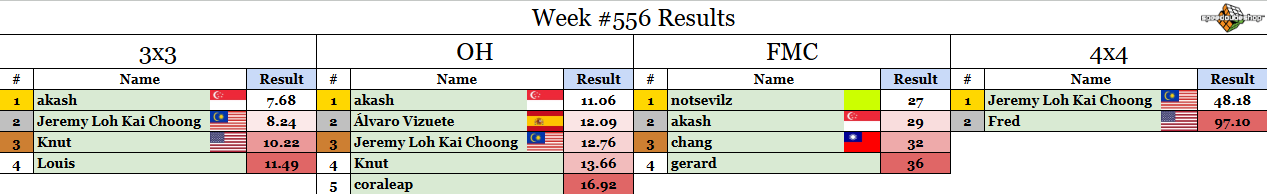
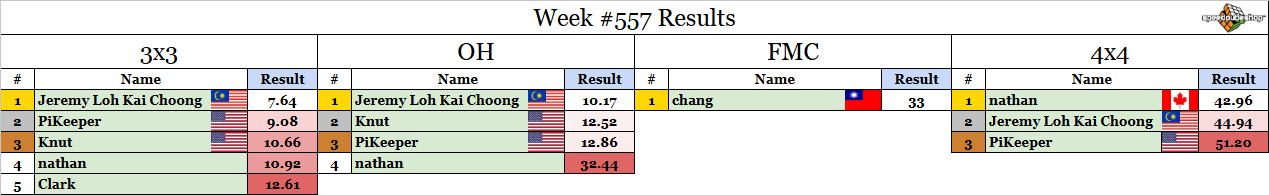
weekly comp update

diff --git a/src/pages/CMLL.tsx b/src/pages/CMLL.tsx
@@ -328,13 +328,19 @@ export default function CMLLTabs() {
                     <li>
                         TCMLL:{" "}
                         <Link href="https://docs.google.com/spreadsheets/d/1ucLxYATDLN82UuJuEaDLFuKhaVHlKUaqicId2_LNISA" target="_blank" rel="noopener">
-                        franz + cordelia + tyler + alavaro's TCMLL Algs - Google Docs
+                        franz + cordelia + tyler + alavaro's TCMLL Algs - Google Sheets
                         </Link>
                     </li>
                     <li>
                         TCMLL:{" "}
                         <Link href="https://docs.google.com/document/d/10wenyuYdJhJd70lka0m01SdCK1OK2OgHGuaPCFMCQc4/edit?tab=t.0" target="_blank" rel="noopener">
                         Montu's TCMLL Algs - Google Docs
+                        </Link>
+                    </li>
+                    <li>
+                        TCMLL:{" "}
+                        <Link href="https://www.dropbox.com/scl/fi/q9rx51ex5p8so2mrn7xxx/tcmll-1a-compilation-full.mp4?rlkey=ce2rok823r3hwmbu8e8l0afz1&e=1&st=jp38qn6q&dl=0" target="_blank" rel="noopener">
+                        Cordelia's TCMLL 1a Execution - Dropbox
                         </Link>
                     </li>
                     <li>

diff --git a/src/pages/Rouxtorials.tsx b/src/pages/Rouxtorials.tsx
@@ -54,7 +54,7 @@ export default function Rouxtorials() {
                 <Typography variant="h4">Video Tutorials</Typography>
                 <ul>
                 <li>
-                    <Link href="" target="_blank" rel="noopener">
+                    <Link href="https://www.youtube.com/playlist?list=PLBHocHmPzgIjnAbNLHDycgaCP5IqiwnU9" target="_blank" rel="noopener">
                     Kian's Beginner Roux Tutorial - YouTube
                     </Link>
                 </li>

diff --git a/src/weeklycomp/post.md b/src/weeklycomp/post.md
@@ -1,9 +1,9 @@
-## Weekly Competition #557 
+## Weekly Competition #558 
  
  This weekly competition is proudly sponsored by SpeedCubeShop.com 
  One competitor will be selected at random to receive a $5 SCS gift card! 
  
- Congrats to last week's winner by a random draw: **akash**. DM me for the prize. 
+ Congrats to last week's winner by a random draw: **PiKeeper**. DM me for the prize. 
  
  Check whether or not you participated this week yet at [https://bit.ly/RMSWeeklyCompSummary](https://bit.ly/RMSWeeklyCompSummary)  
  
@@ -17,31 +17,28 @@
  7. The comp runs until Sunday 5pm Eastern time (more or less). Enter your times using the forms links below. 
  
 ### 3x3: [Submission Form](https://forms.gle/H5xoCWvGKnZ92fQt8) 
- 1. R B R F' R2 L' B2 U R2 F U2 L2 U2 L2 F D2 F L2 D2 F 
- 2. B2 U R2 B2 F2 R2 B2 U R' U2 R' B2 F L' B U F U2 
- 3. F' U L2 U' B2 U R' U L2 F B U2 F L2 F' B2 R2 L2 U2 F2 
- 4. F L F L' B U' D B2 R2 U2 R2 D2 B2 R F2 U2 R2 D' R2 
- 5. D2 R2 B' D2 L2 U L' D2 L2 D2 F' U2 B D2 F2 U2 F' U' F 
+ 1. D2 F' R' L D L' U L2 F B L2 D2 L2 F' R2 F2 D2 R F2 
+ 2. F2 R' F2 L' D2 B' D' L' F' U' R2 F2 B2 R2 B2 D' R2 U' D2 B2 D' 
+ 3. B' D' L2 B2 L2 F' R2 D2 L2 D2 B' L2 F' U L2 R' F' L' D2 B 
+ 4. U L2 U R2 F2 R2 B2 D' L2 U' L' F U B' U' F D R2 B' 
+ 5. B D B2 D B' L' D2 R D2 F2 U2 D' R2 L2 B2 R2 U2 F2 
  
 ### OH: [Submission Form](https://forms.gle/UgRLW3K1d5KkMGfM9) 
- 1. B' L2 B2 L2 U' R2 B2 F2 D F2 U L U F2 R2 U' B2 F' 
- 2. D' F L F B U2 R2 F U' D2 R2 B2 R' D2 R' F2 R D2 L2 B2 
- 3. L B' R2 D' F L' D L' U L2 U L2 U L2 U R2 L2 F2 D2 R 
- 4. R F L F' L' U' L' U2 F' D2 R2 F' R2 U2 B' R2 B2 L B 
- 5. F2 R L2 D B2 D' B2 F2 U2 L2 U' F2 U B U2 B L' F' D2 B' U 
+ 1. R' B' R' F2 D2 L F2 D2 U2 F2 R' B2 R2 D2 B' D2 F R2 U' L U 
+ 2. U B' U' F' U' F' D B R F2 B2 U B2 D R2 U' D2 L2 D2 
+ 3. D2 R2 F R' L F U F' U' F' U2 F2 R2 B D2 B' U2 D2 B R2 
+ 4. L U R' B2 U2 L' B2 R F2 D2 R2 U2 F2 R U L' B' L F2 R B2 
+ 5. U F2 U' L2 F2 U2 R2 B2 F2 U F2 U L' B' L2 R2 D F2 U' L' R2 
  
 ### FMC: [Submission Form](https://forms.gle/1P9VUgZmA1pibwvL9) 
- 1. R' U' F B' D L2 B2 U' B2 F2 D U2 F2 D' R2 L U' B2 U' R' B' D' F' R' U' F 
+ 1. R' U' F D F2 R2 U' R2 D L2 B2 F2 U R' D L' U' L2 F U' B' D R' U' F 
  
 ### 4x4: [Submission Form](https://forms.gle/bHNjncvEcPvFWBP2A) 
- 1. F' L2 B2 L' U2 R U2 D2 F2 R' D2 L2 U' D2 B U F' R' B2 U D2 Rw2 B D2 L' B' Uw2 Fw2 R' U2 Uw2 R2 F' R Uw R L2 U' Uw2 B2 Rw' Fw Rw' U L Rw2 
- 2. U2 R B2 L U2 L U2 L2 D2 F2 D' F' D' B' U' D' R' F' L Rw2 F' Uw2 R2 L2 F L' F Rw2 D2 B Fw2 R Uw B' Fw2 L' D Rw' Fw' R Uw2 Rw2 Fw' Uw' 
- 3. L2 F2 U2 F' R2 D2 F D2 F2 U2 D' F2 R D' F2 D B2 L B2 Rw2 F2 Uw2 L D2 F2 U Fw2 D F2 Fw2 L' Fw' D2 Fw2 R2 F2 Fw' Uw' R' Fw' Uw B' R' D 
- 4. U' R F2 D2 R2 F2 R2 U2 F R2 U2 F2 U2 B2 R' F' L' D R B2 U' Rw2 B' U' F D' R2 Rw2 F' U' Uw2 B2 U2 Rw' D L' B U Rw Uw' F' D' Fw' R Fw' R' 
- 5. U R2 L' F R2 F' D2 B2 R2 B R2 F U2 B2 R' F' B2 R L2 U' R2 Rw2 Fw2 U' R F2 L' Fw2 L' B2 D B2 R2 Fw' Rw2 U D2 F' Fw Rw' U' F Uw' Rw U2 Fw 
+ 1. U L2 B2 R2 L2 D2 F2 L2 U F2 U' R' U2 B' D F B R D L' D2 Rw2 U F2 B Fw2 R2 U R2 Rw2 B D2 Fw2 R' Fw2 Rw B2 D' B' Uw' Fw2 Uw' R B2 Rw' Uw' 
+ 2. F2 L B2 R U2 R2 B2 R' U2 D2 R2 F B L' F2 U F2 B2 L' F' Fw2 U2 Uw2 B' U' Fw2 Rw2 B2 U' F' Rw2 F2 Rw Uw2 R' U' R' Fw' L2 D' R Uw' B2 Fw2 
+ 3. U' L2 D F2 D2 B2 D B2 L2 D F R L' B2 L2 U' R L2 D Fw2 R2 Uw2 L2 B' Uw2 R' F Fw2 L2 Fw2 L' U L2 Uw' F' B Fw' Uw2 B' D2 Rw2 Uw Rw D 
+ 4. U F' D B D2 L2 B' R2 F2 B' L2 B U2 F' R B2 U' R' L2 D' L2 Uw2 B' D Uw2 F' Uw2 L2 U' Fw2 D' Rw2 D' L B Rw' Fw2 L F' D' Uw Rw B2 Rw' F2 
+ 5. U F L2 U2 R' U2 L U2 B2 R2 L F2 U' D2 F2 L F B2 D' R2 B Uw2 Fw2 R' D' Rw2 B2 U D2 L F2 D2 Rw2 F' Fw D' B' U' Rw2 F L' Uw F' B 
  
 ### Winning FMC solutions from last week: 
- 1. notsevilz, 27 moves: [SOLUTION](https://bit.ly/3JOQ4cx)
- 2. akash, 29 moves: [SOLUTION](https://bit.ly/4nMI0Hh)
- 3. chang, 32 moves: [SOLUTION](https://bit.ly/4oX97QP)
- 
+ 1. chang, 33 moves: [SOLUTION](https://bit.ly/47JkYML)
